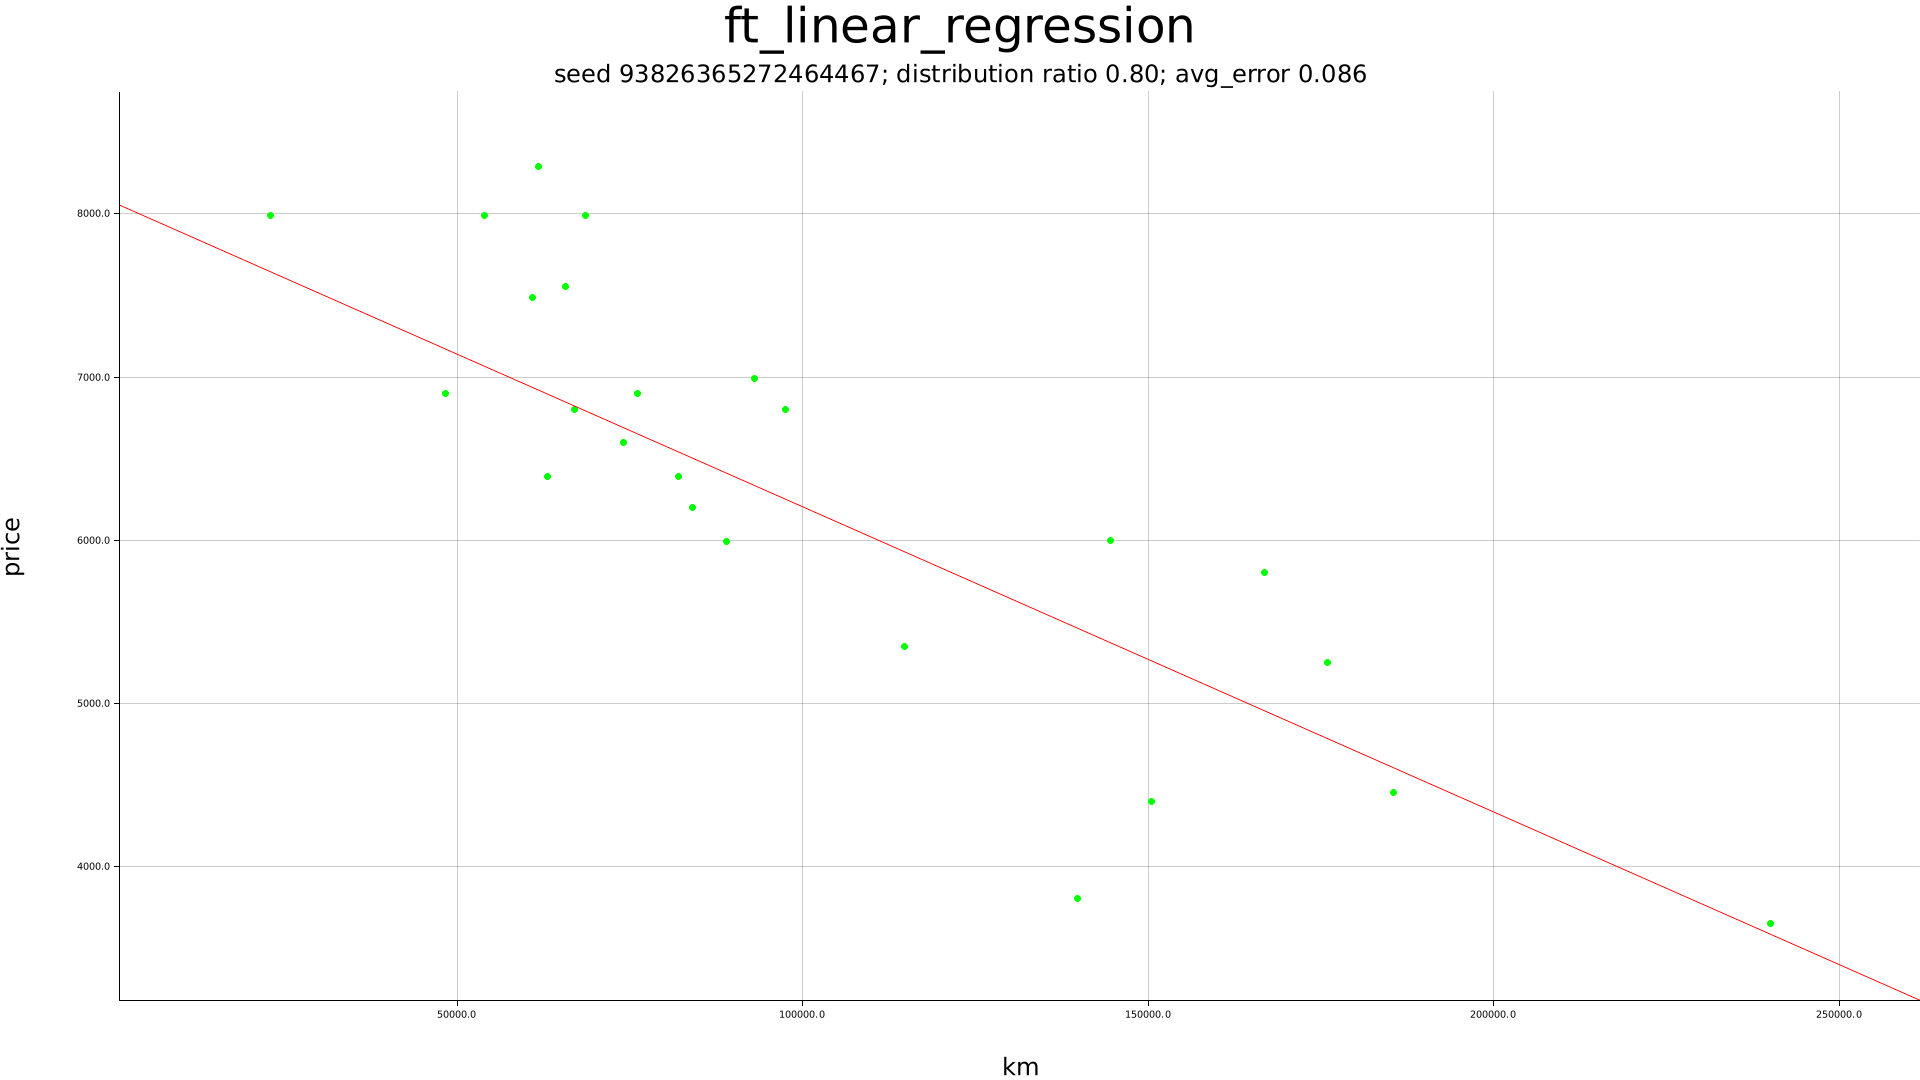
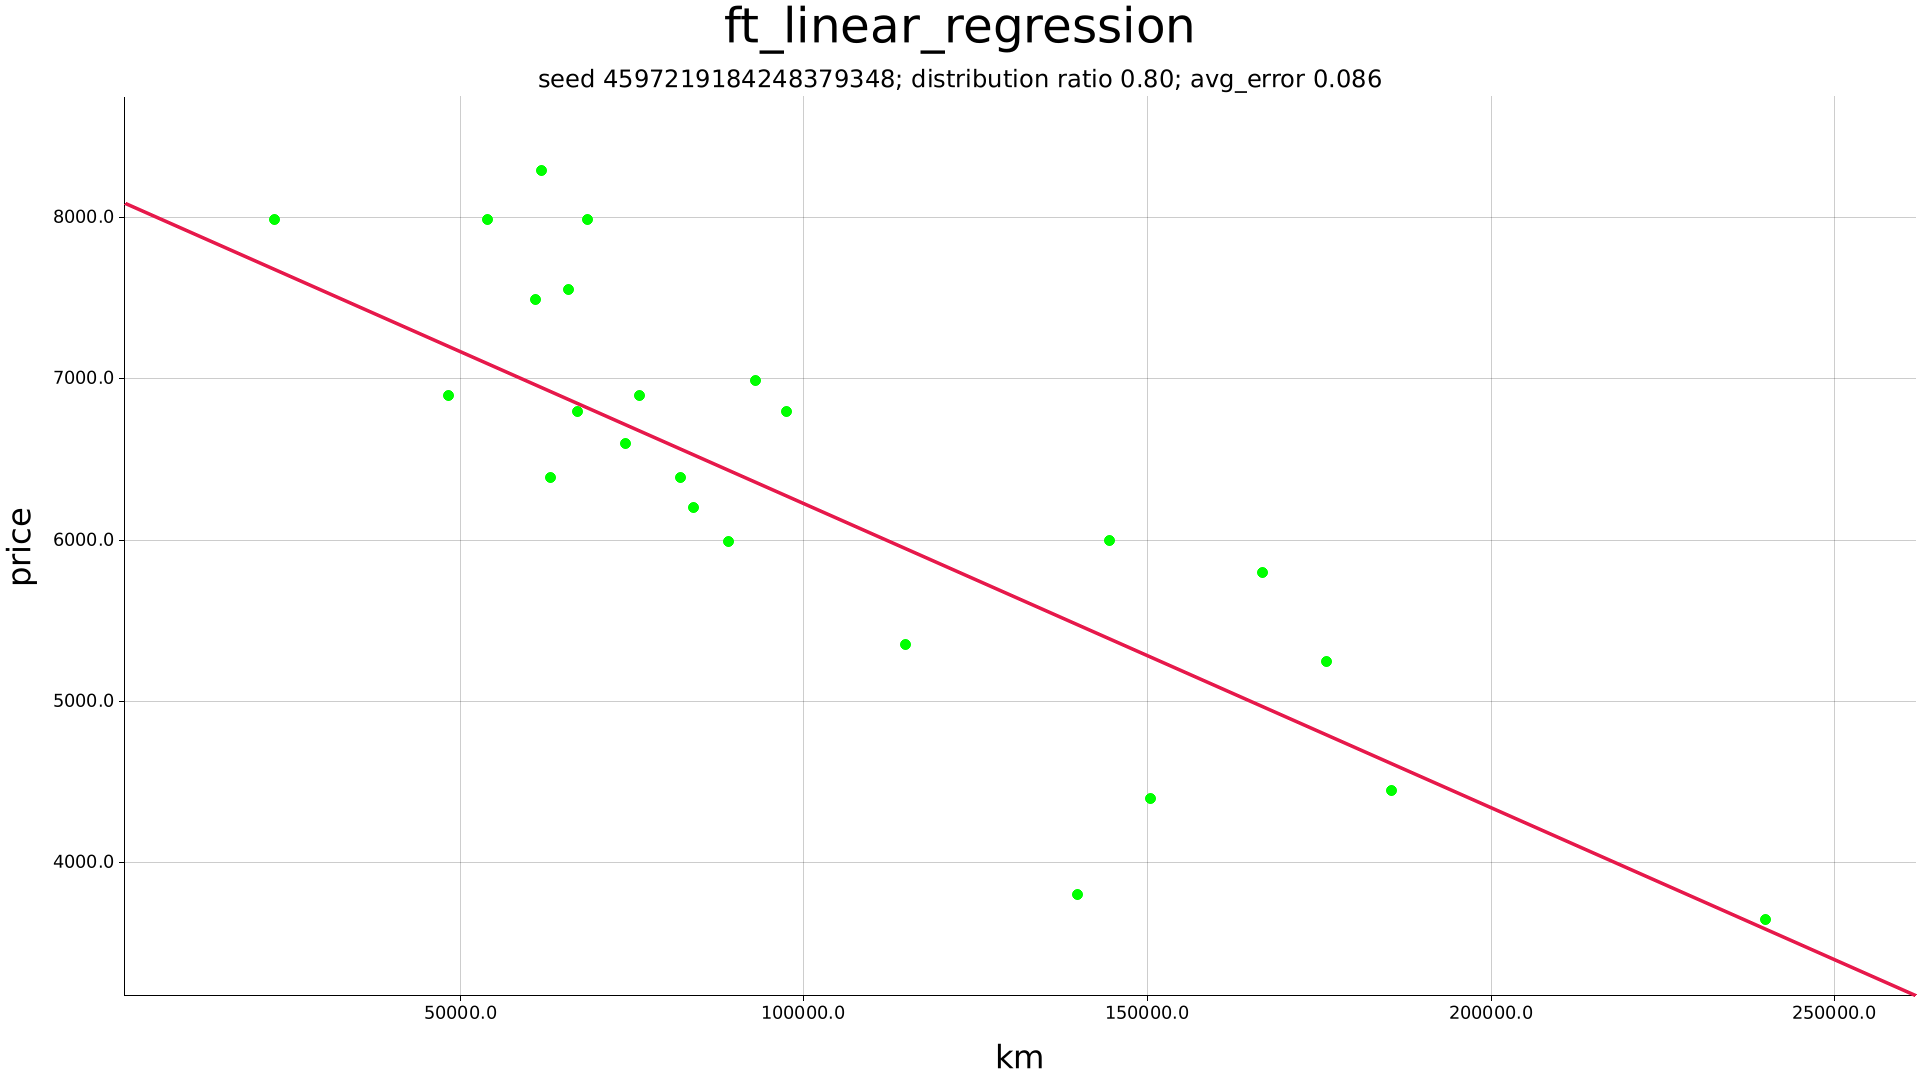
plot formatting, example update

diff --git a/src/train/trainer.rs b/src/train/trainer.rs
@@ -236,6 +236,7 @@ impl Trainer {
 		let mut scatter_ctx = ChartBuilder::on(&root)
 			.x_label_area_size(80)
 			.y_label_area_size(120)
+			.margin(5)
 			.caption(&self.get_summary(), ("sans-serif", 30))
 			.build_cartesian_2d(bbox.0..bbox.2, bbox.1..bbox.3)
 			.unwrap();
@@ -244,23 +245,25 @@ impl Trainer {
 			.light_line_style(&WHITE)
 			.x_desc(format!("{}", self.labels[0]))
 			.y_desc(format!("{}", self.labels[1]))
-			.axis_desc_style(("sans-serif", 30))
+			.axis_desc_style(("sans-serif", 40))
+			.label_style(("sans-serif", 22))
 			.draw()
 			.unwrap();
 		scatter_ctx
 			.draw_series(
 				self.data
 					.iter()
-					.map(|(x, y)| Circle::new((*x, *y), 3, GREEN.filled())),
+					.map(|(x, y)| Circle::new((*x, *y), 5, GREEN.filled())),
 			)
 			.unwrap();
 		let x_axis = vec![bbox.0, bbox.2];
+		let color = Palette99::pick(0).stroke_width(3);
 		scatter_ctx
 			.draw_series(LineSeries::new(
 				x_axis
 					.iter()
 					.map(|x| (*x, self.ctx.theta.0 + self.ctx.theta.1 * *x)),
-				&RED,
+				color,
 			))
 			.expect("Couldn't draw line");
 		// To avoid the IO failure being ignored silently, we manually call the present function
